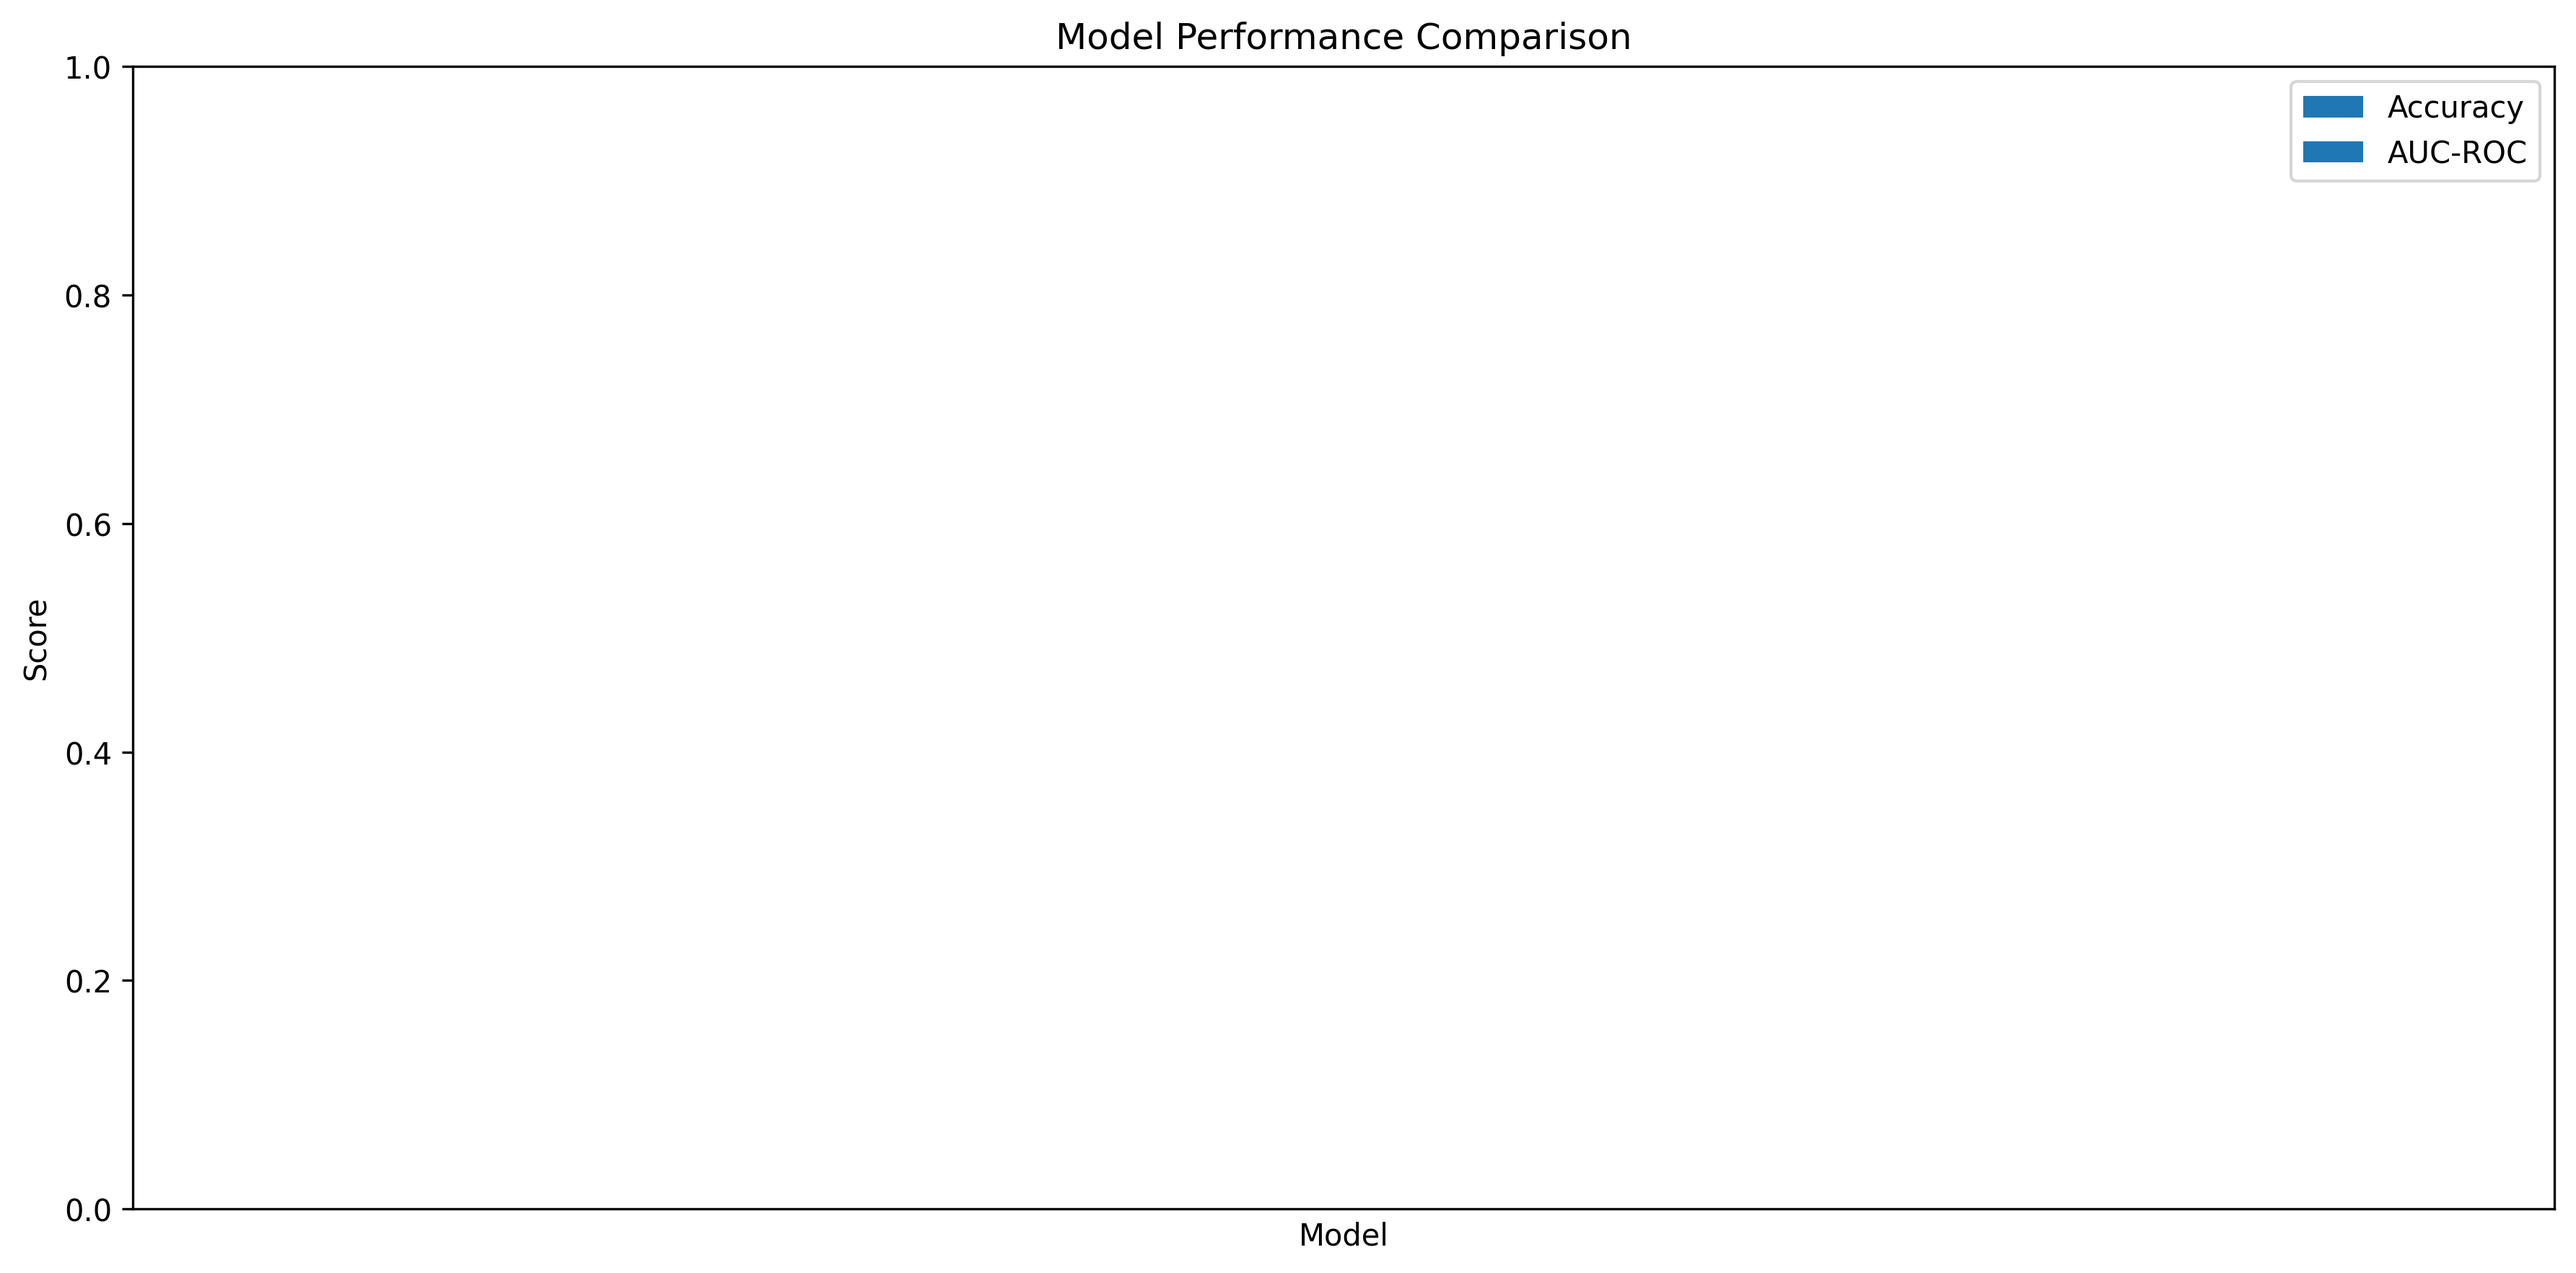
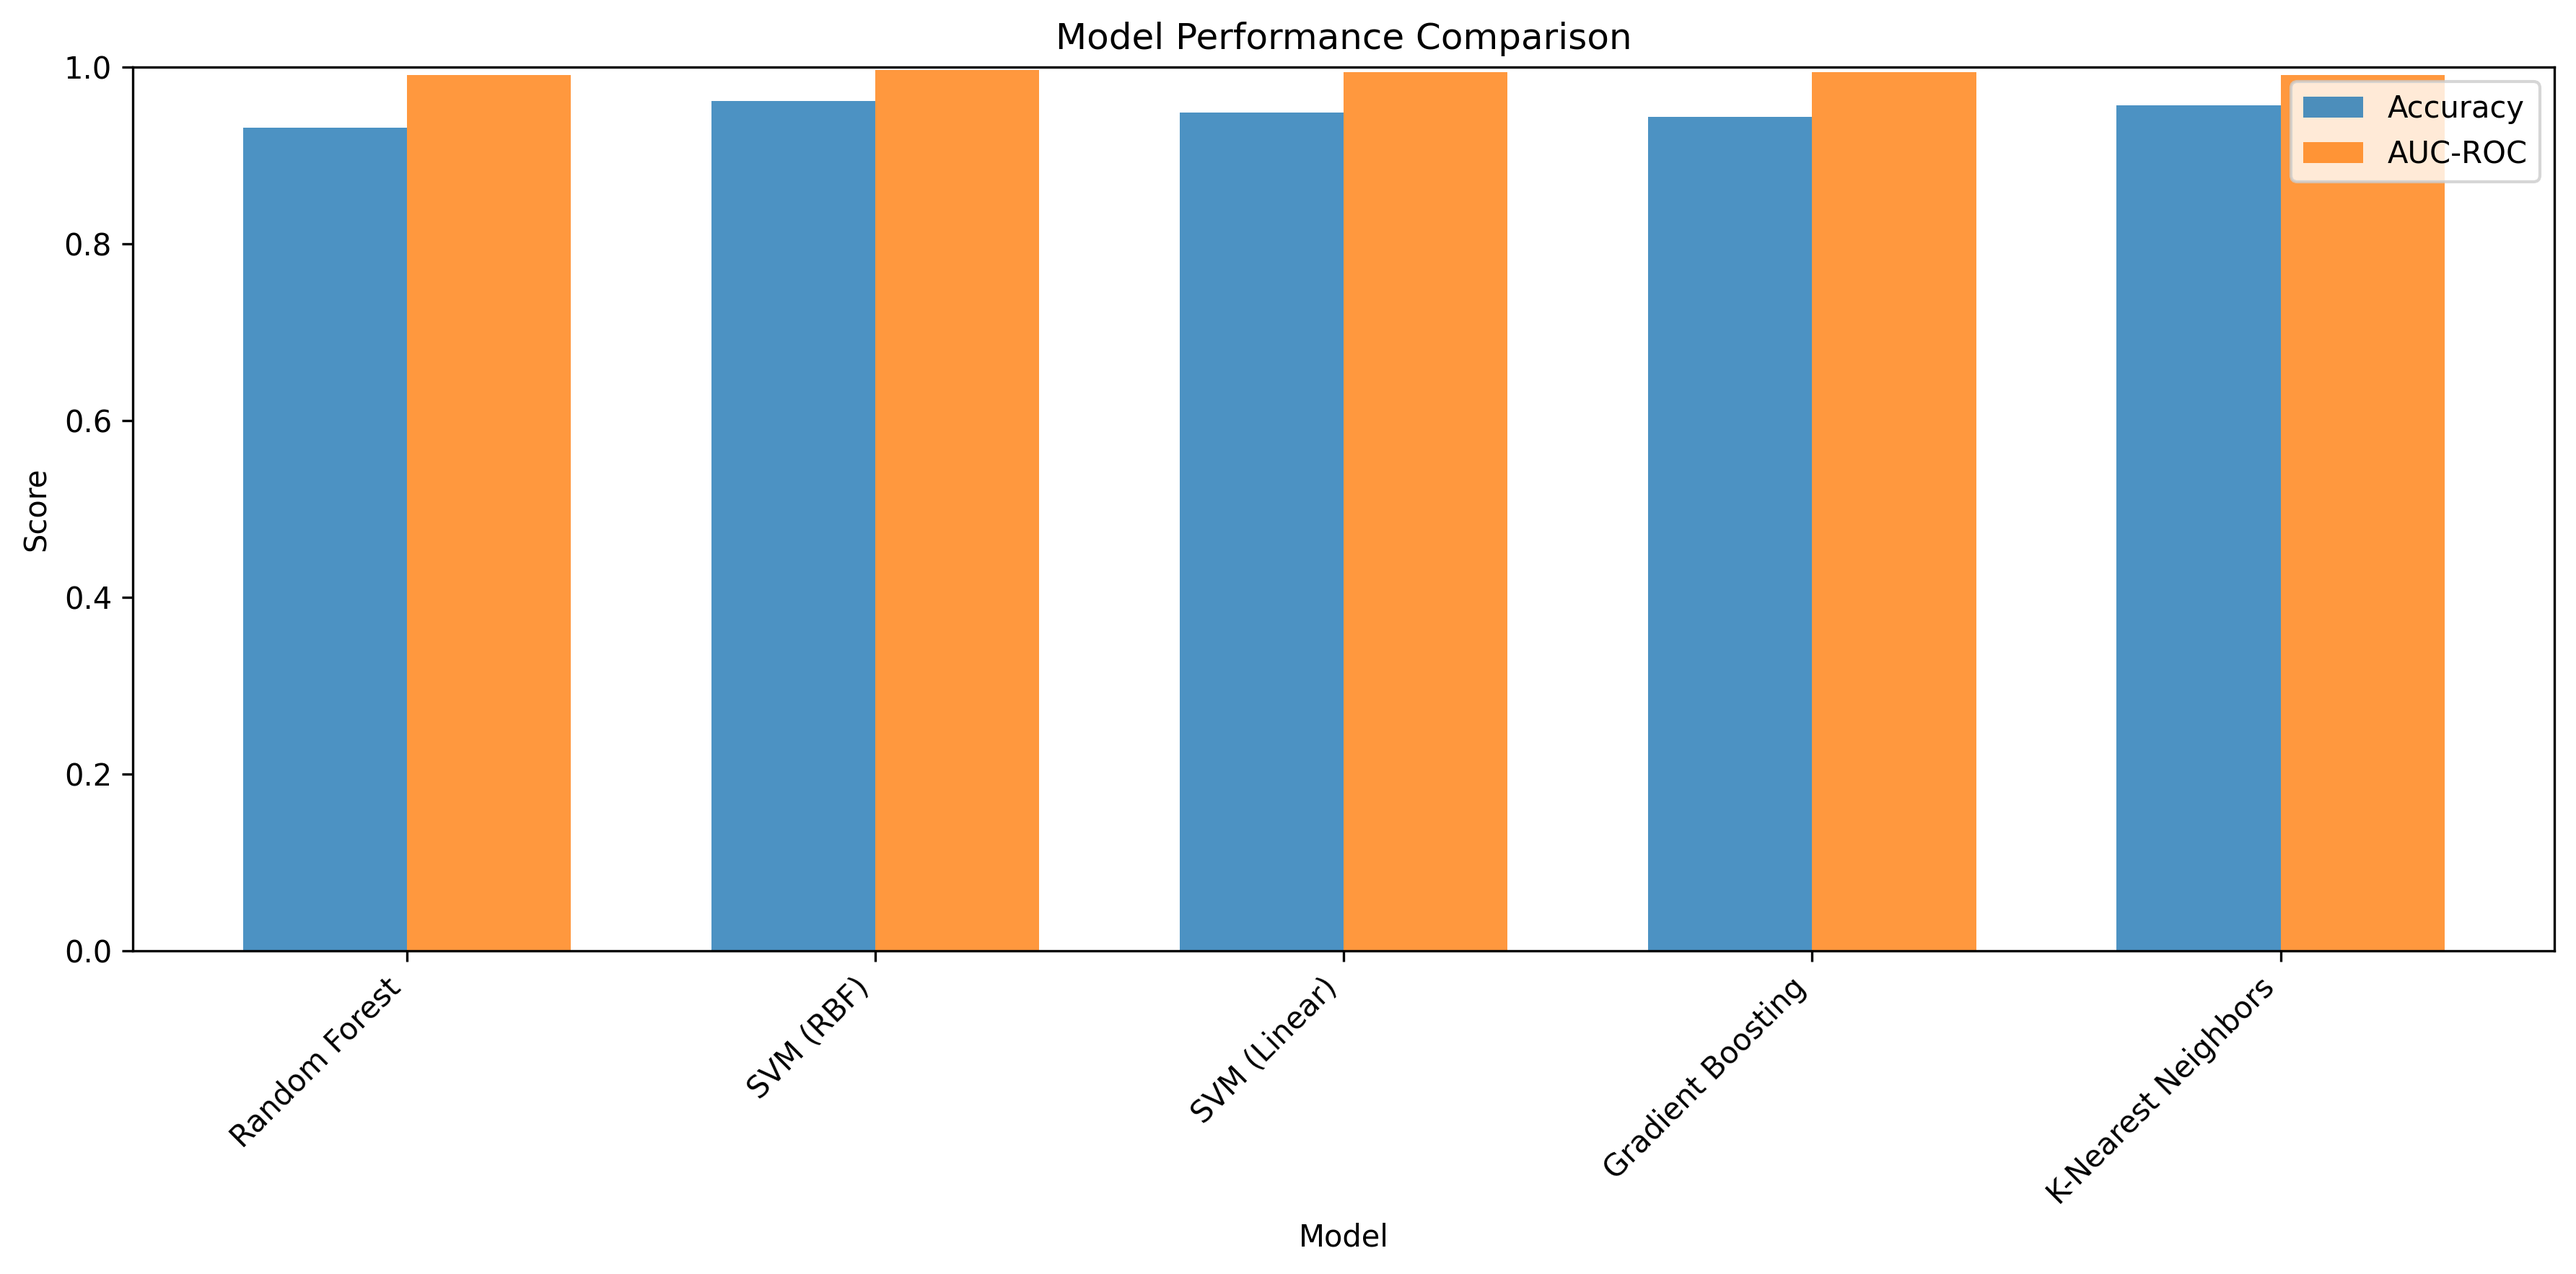
fix model evaluation and results saving

diff --git a/brain_tumour_classification.py b/brain_tumour_classification.py
@@ -185,7 +185,10 @@ class BrainTumorClassifier:
                 random_state=random_state,
             ),
             "SVM (Linear)": SVC(
-                kernel="linear", C=1, probability=True, random_state=random_state
+                kernel="linear",
+                C=1,
+                probability=True,
+                random_state=random_state,
             ),
             "Gradient Boosting": xgb.XGBClassifier(
                 n_estimators=100,
@@ -255,7 +258,9 @@ class BrainTumorClassifier:
                     y_val_bin, y_proba, average="macro", multi_class="ovr"
                 )
             else:
-                auc_roc = roc_auc_score(y_val, y_proba[:, 1])
+                auc_roc = roc_auc_score(
+                    y_val, y_proba, average="macro", multi_class="ovr"
+                )
             print(f"\nAUC-ROC (macro): {auc_roc:.4f}")
 
             # Store test results
@@ -330,7 +335,7 @@ class BrainTumorClassifier:
         best_name = max(
             self.results.keys(), key=lambda x: self.results[x]["test_accuracy"]
         )
-        best_model = self.results[best_name]["model"]
+        best_model = self.models[best_name]
 
         # Save model, scaler, and label encoder
         model_data = {
